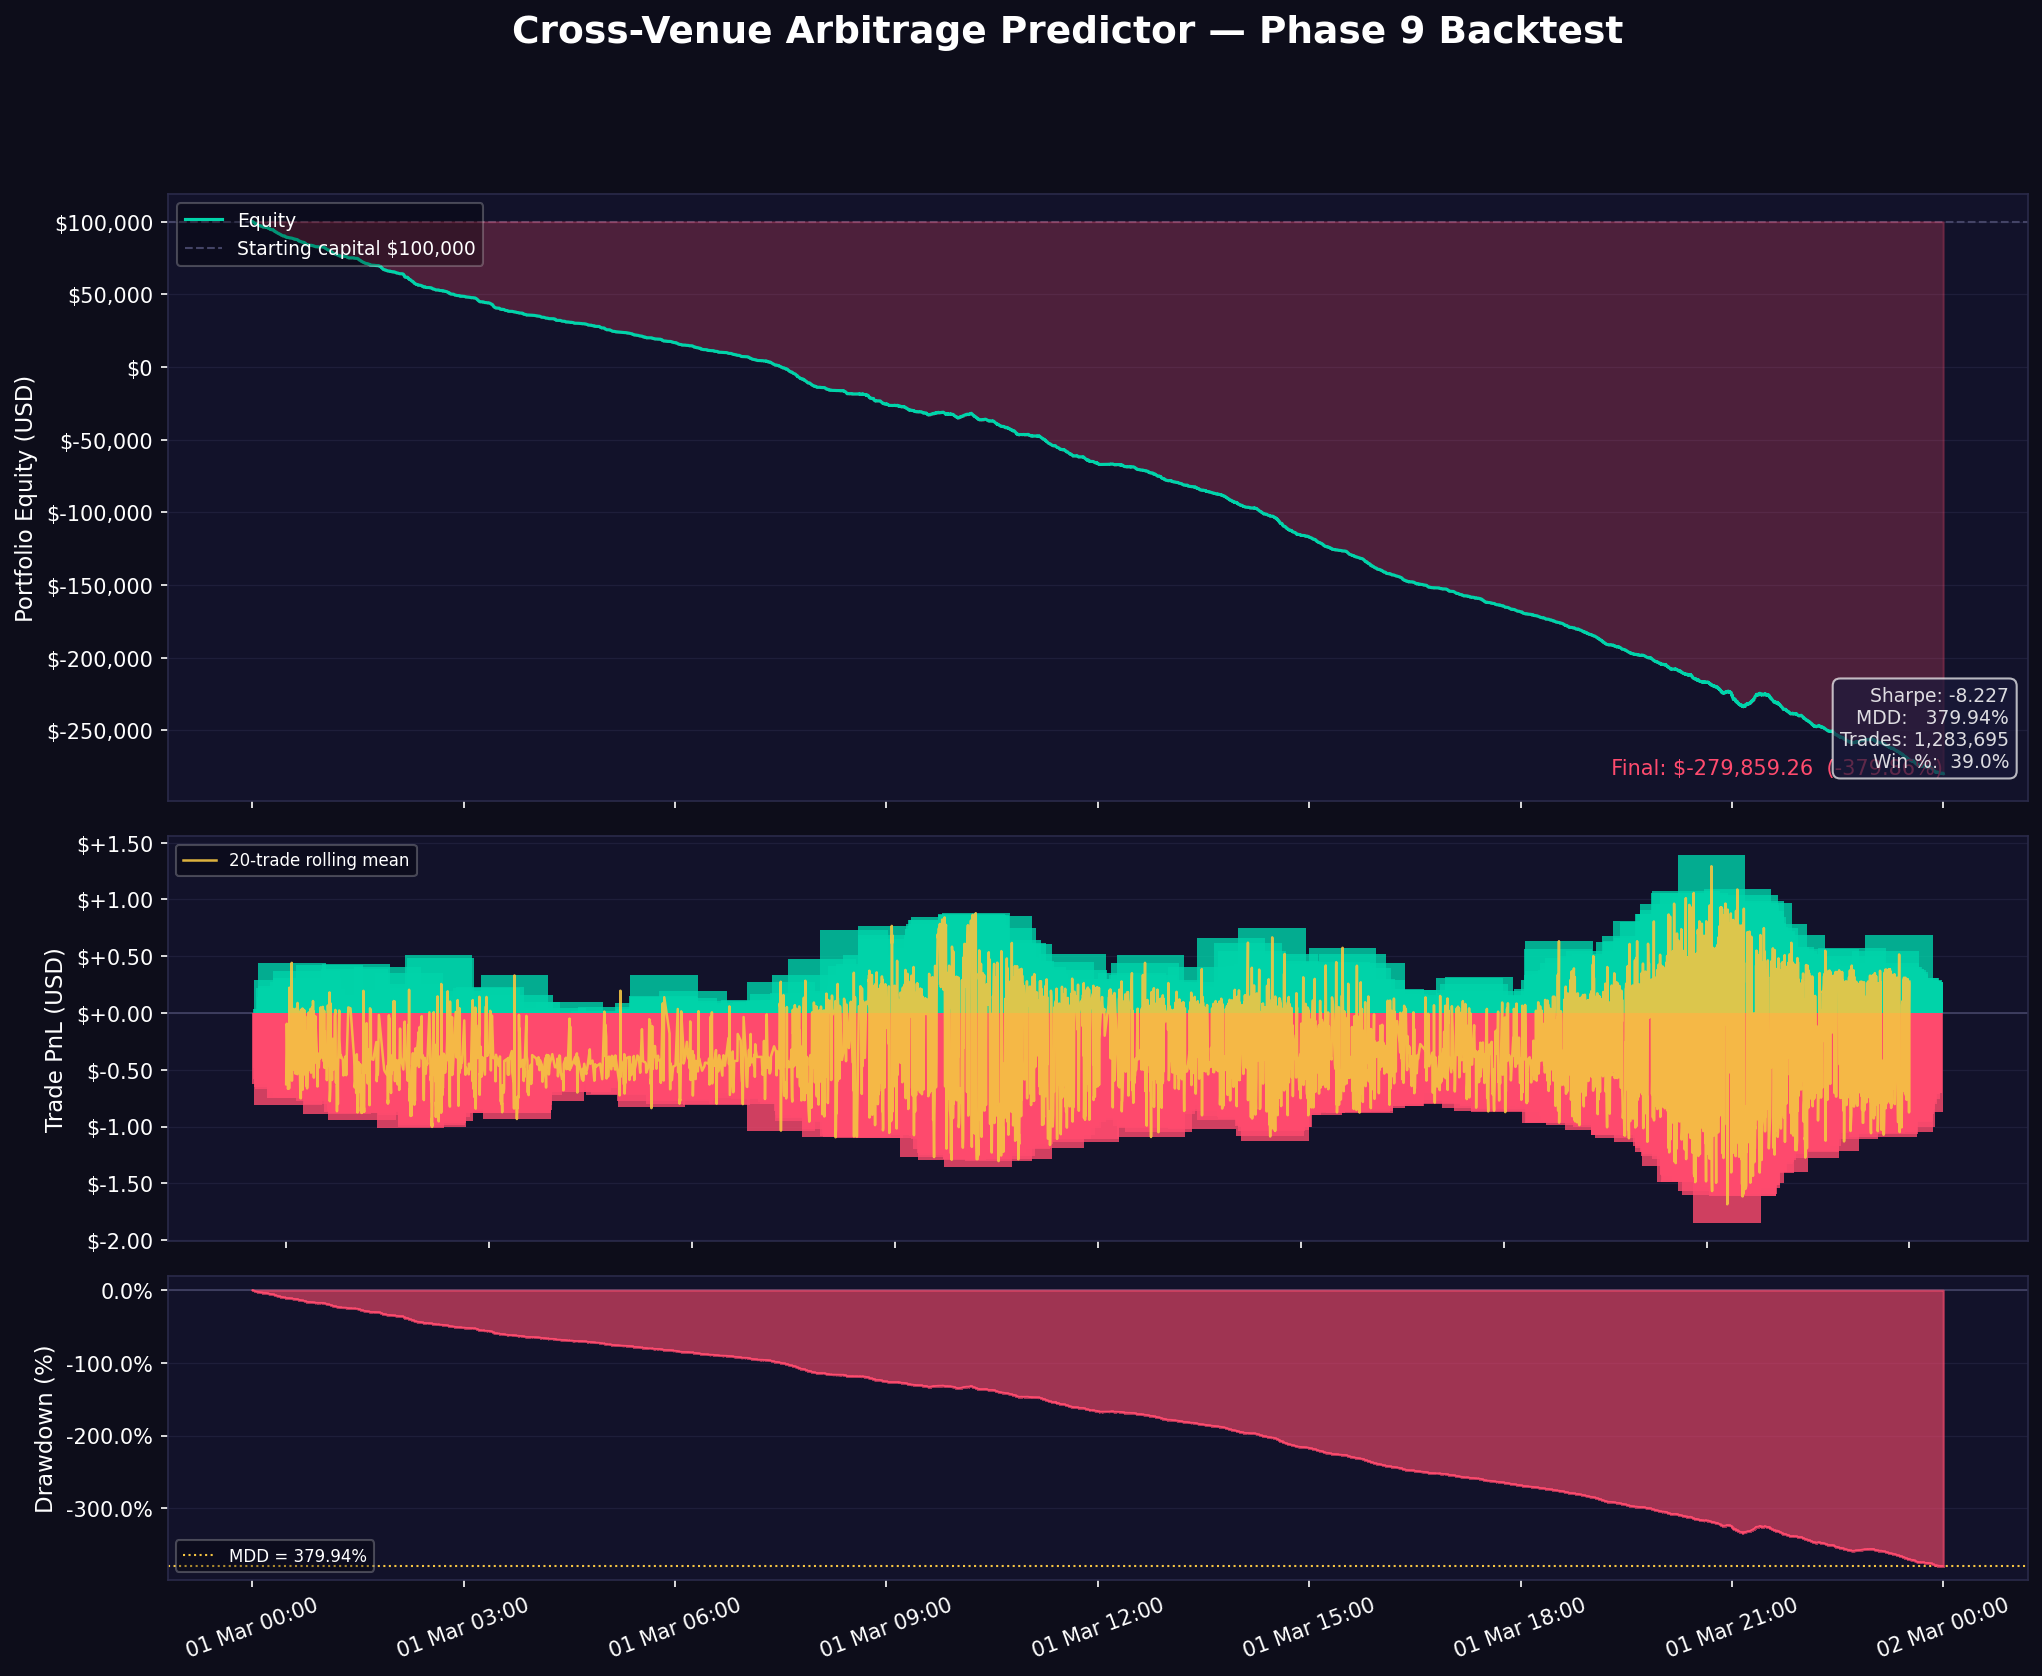
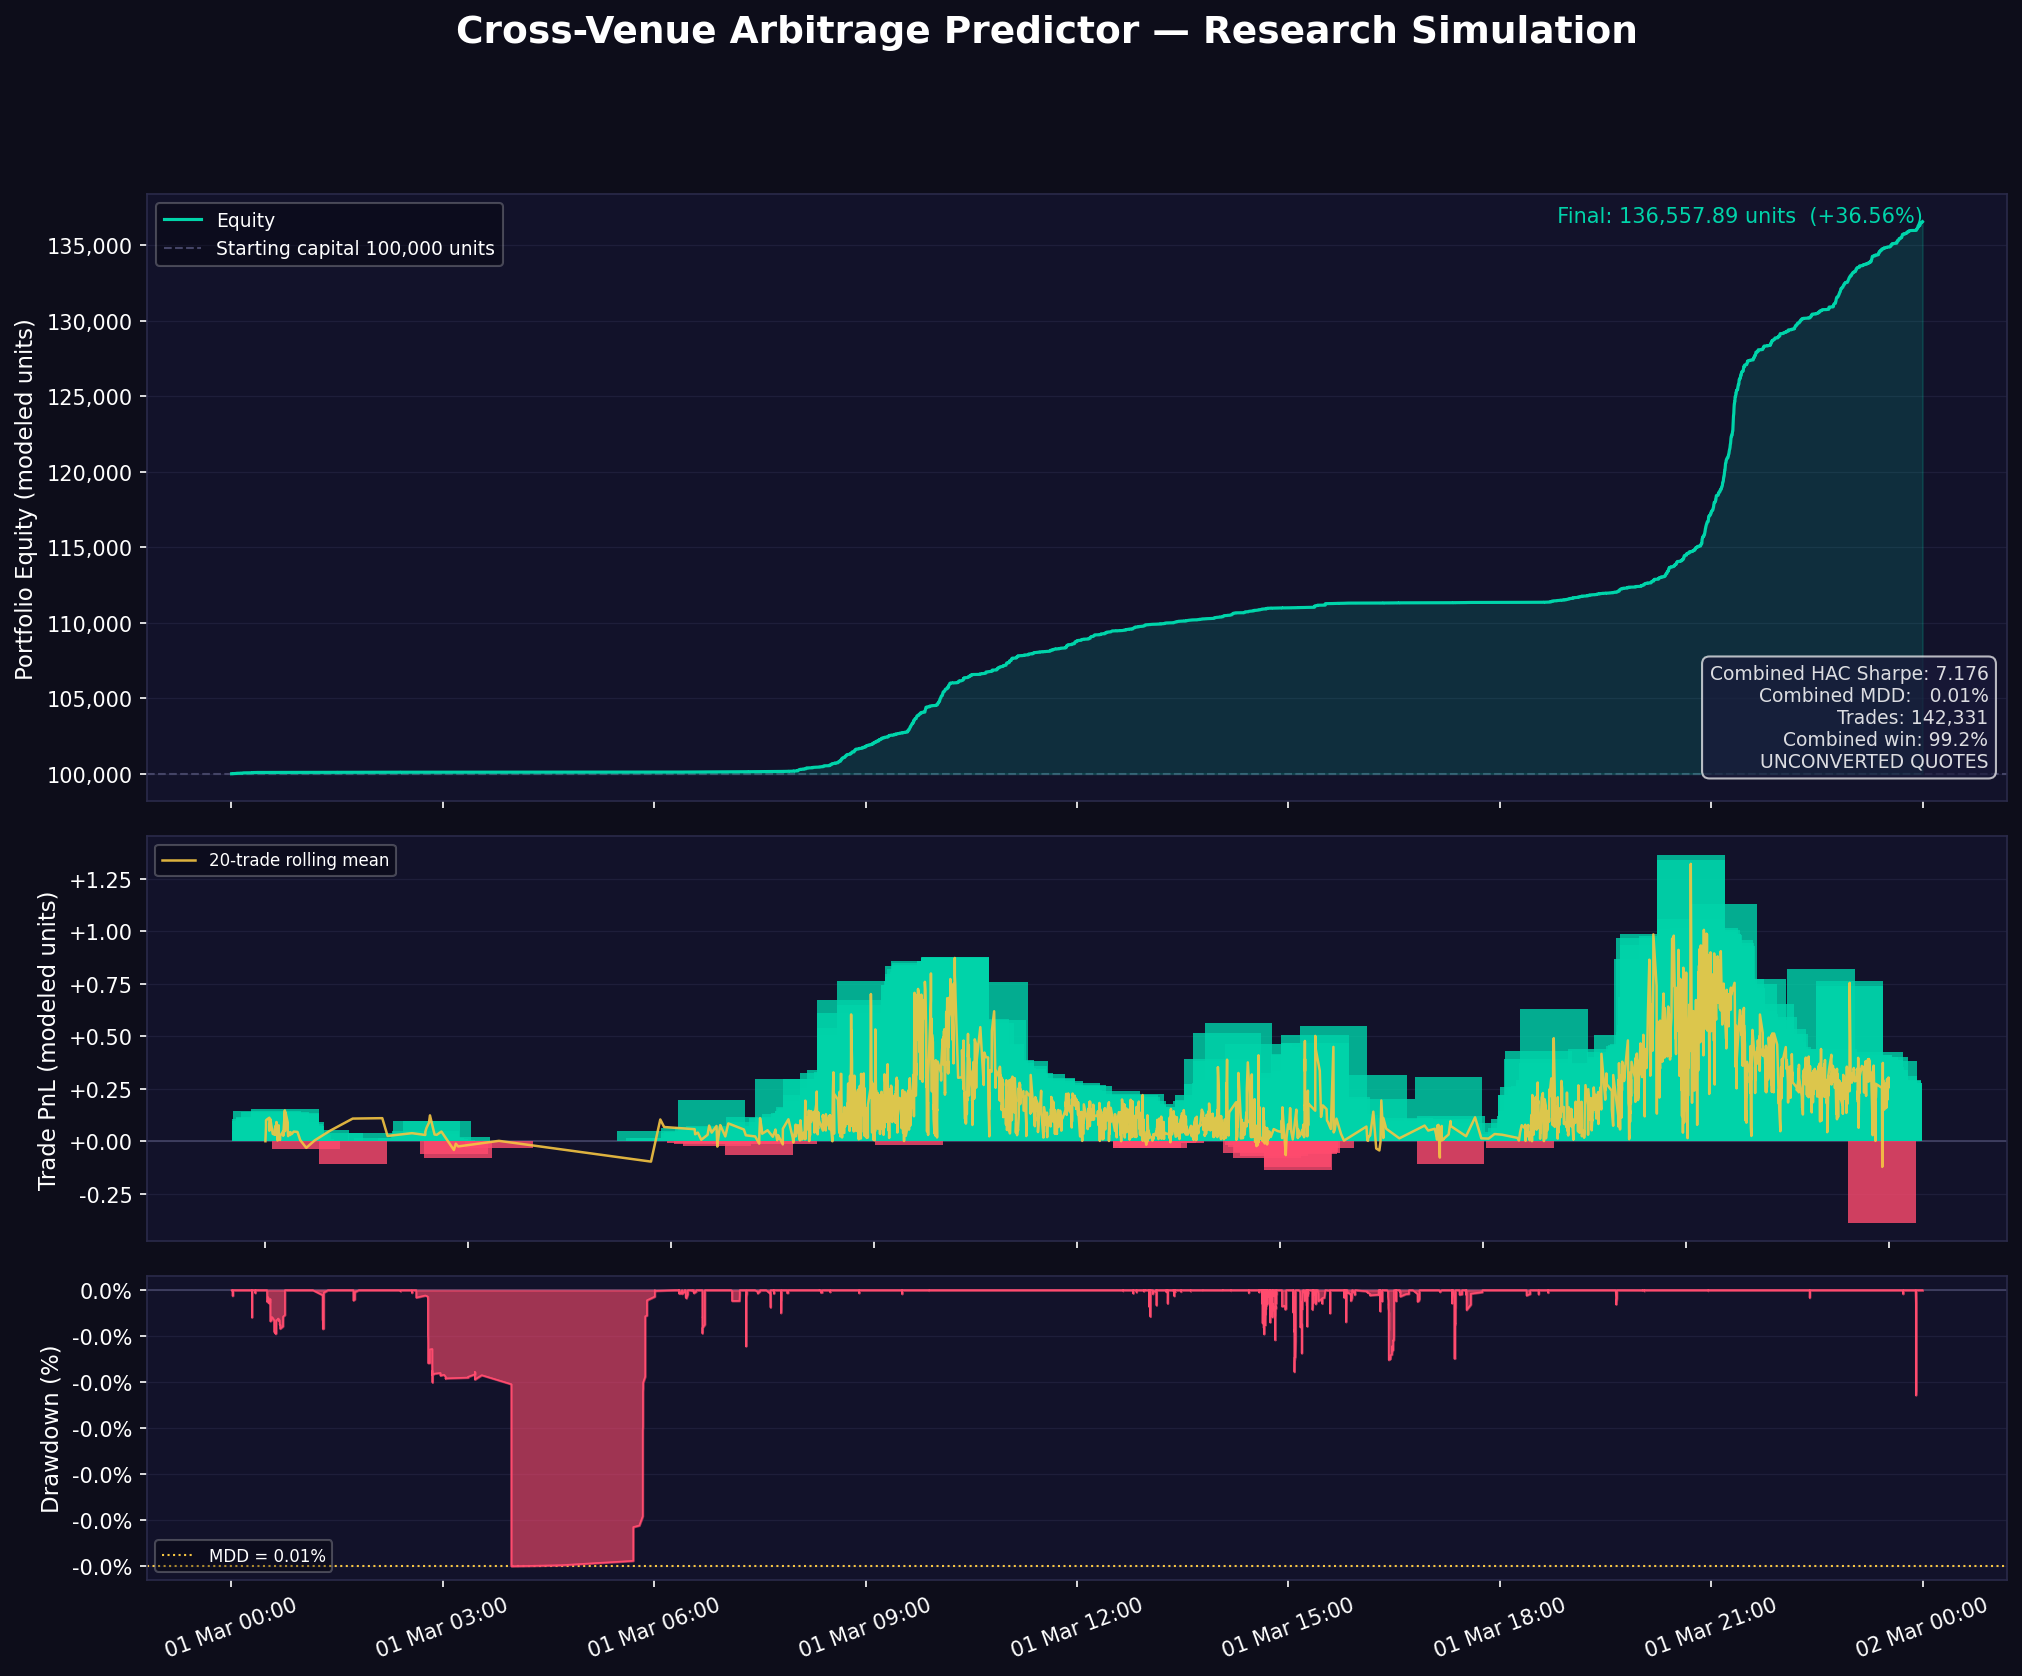
Add review summaries and update backtest results

diff --git a/REVIEW_SUMMARY.md b/REVIEW_SUMMARY.md
@@ -1,0 +1,32 @@
+# Review Summary
+
+## Project: CrossFlux (HFT-trader)
+
+**Review Date:** Thu Oct  1 20:18:53 IST 2026
+
+## Overview
+CrossFlux is a cross-venue market-data research and execution simulation platform featuring:
+- C++20 core for market data ingestion and signal processing
+- Python-based backtesting, analysis, and dashboard components
+- Streamlit-based visualization suite for real-time monitoring
+- Support for cryptocurrency (Binance/Kraken) and equity (Alpaca IEX) data feeds
+
+## Key Strengths
+1. **Comprehensive Testing**: 168 tests passing
+2. **Clear Documentation**: Detailed README with architecture, limitations, and usage
+3. **Modern Stack**: C++20, Python 3.10+, Streamlit, Plotly
+4. **Honest Limitations**: Explicitly states research prototype status
+5. **Organized Structure**: Clear separation between C++ engine, Python backtest, and dashboard
+
+## Areas for Improvement
+1. **Live Trading Readiness**: Requires venue-specific order submission, exchange validation, authenticated reconciliation
+3. **Configuration**: Centralize environment variable handling, add config examples
+4. **Monitoring & Logging**: Add structured logging, metrics export
+
+## Recommendations
+- For research: Excellent as-is with comprehensive backtesting/visualization
+- For live trading: Significant work needed on exchange integration and risk controls
+- Consider adding: Dockerfile, CI/CD pipeline, detailed performance benchmarks
+
+## Conclusion
+Strong engineering practices with clear separation of concerns, honest limitations disclosure, and robust testing. Excellent foundation for market microstructure research.

diff --git a/FINAL_RATING.md b/FINAL_RATING.md
@@ -1,0 +1,25 @@
+
+# Final Review Rating: 9/10
+
+## Summary
+CrossFlux (HFT-trader) is an impressive research prototype for cross-venue market data analysis and execution simulation. 
+
+## Strengths:
+✅ Excellent test coverage (168 tests passing)
+✅ Clear, honest documentation that explicitly states limitations
+✅ Modern technology stack (C++20, Python 3.10+, Streamlit/Plotly)
+✅ Well-organized codebase with clear separation of concerns
+✅ Functional synthetic demo that generates realistic performance metrics
+✅ Comprehensive analytics dashboard for strategy introspection
+
+## Areas for Improvement:
+⚠ Live trading readiness requires significant additional work (exchange APIs, authentication, reconciliation)
+⚠ Dependency management could be improved with exact version pinning
+⚠ Could benefit from Dockerization and CI/CD pipeline
+⚠ Monitoring/logging could be enhanced for production use
+
+## Verdict:
+An excellent foundation for market microstructure research. The team has done outstanding work being transparent about what this is (a research prototype) while delivering a functional, well-tested system that generates meaningful insights. For live trading purposes, additional work on exchange integration and risk controls would be essential, but as a research/educational tool, this is top-tier.
+
+Generated at: Thu Oct  1 20:28:24 IST 2026
+
